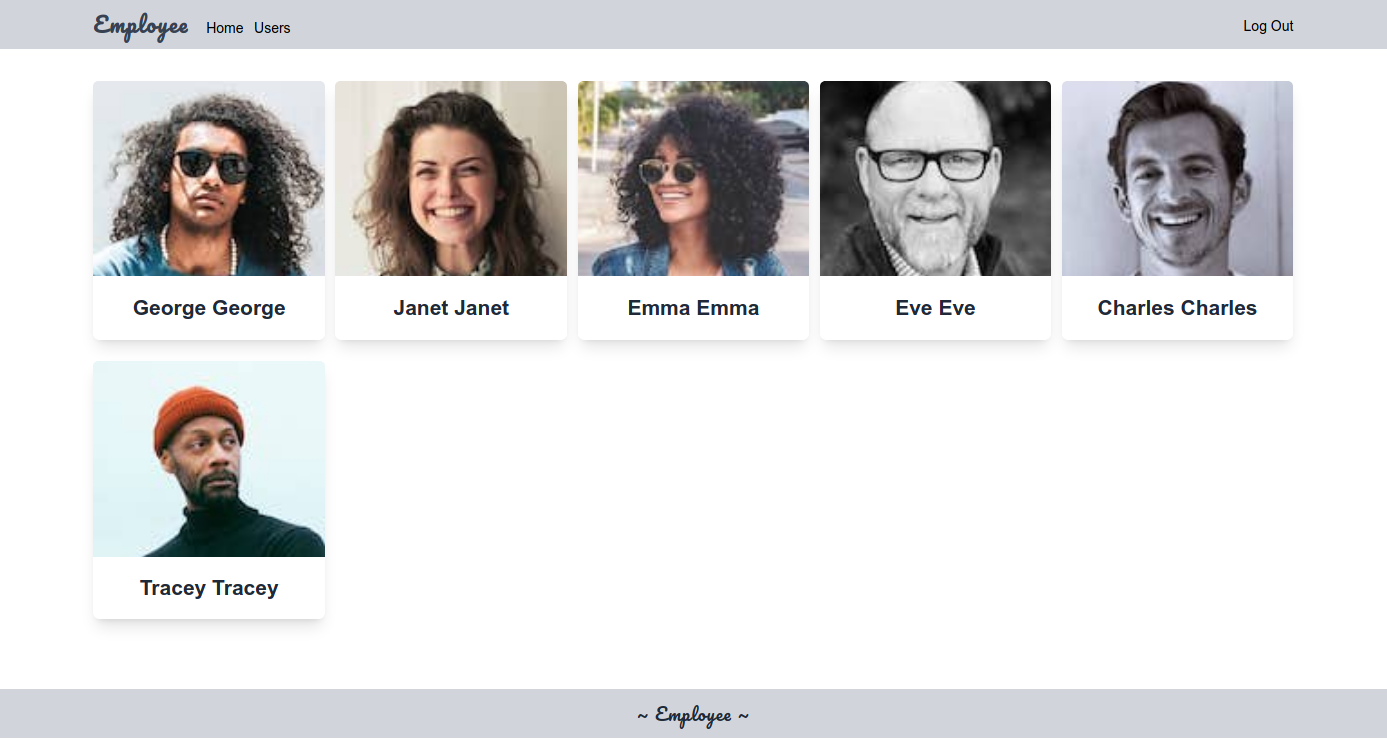
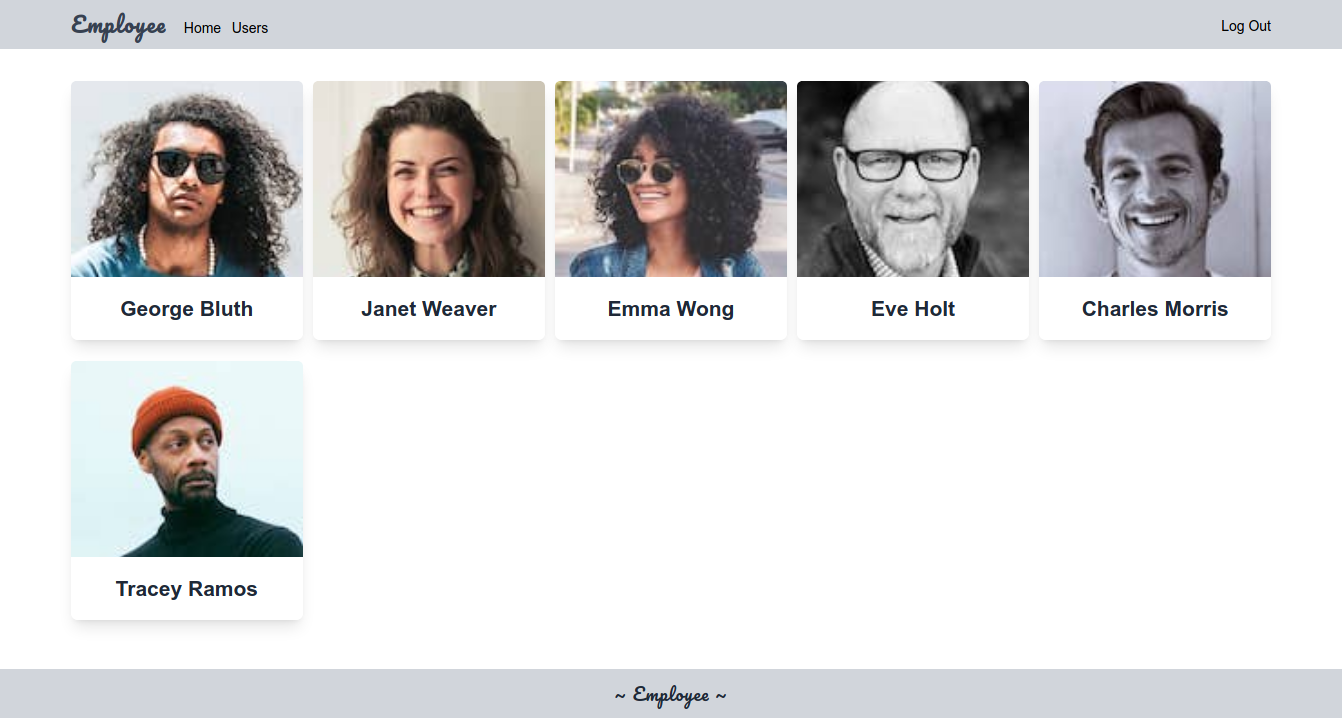
readme

diff --git a/src/components/Card/CardHome.jsx b/src/components/Card/CardHome.jsx
@@ -14,7 +14,7 @@ const CardHome = ({ dataUsers }) => {
           <img className="object-cover rounded-t-md w-full h-56" src={user.avatar} alt="avatar" />
           <div className="py-5 text-center">
             <p className="block text-2xl font-bold text-gray-800 dark:text-white">
-              {user.first_name} {user.first_name}
+              {user.first_name} {user.last_name}
             </p>
           </div>
         </div>
